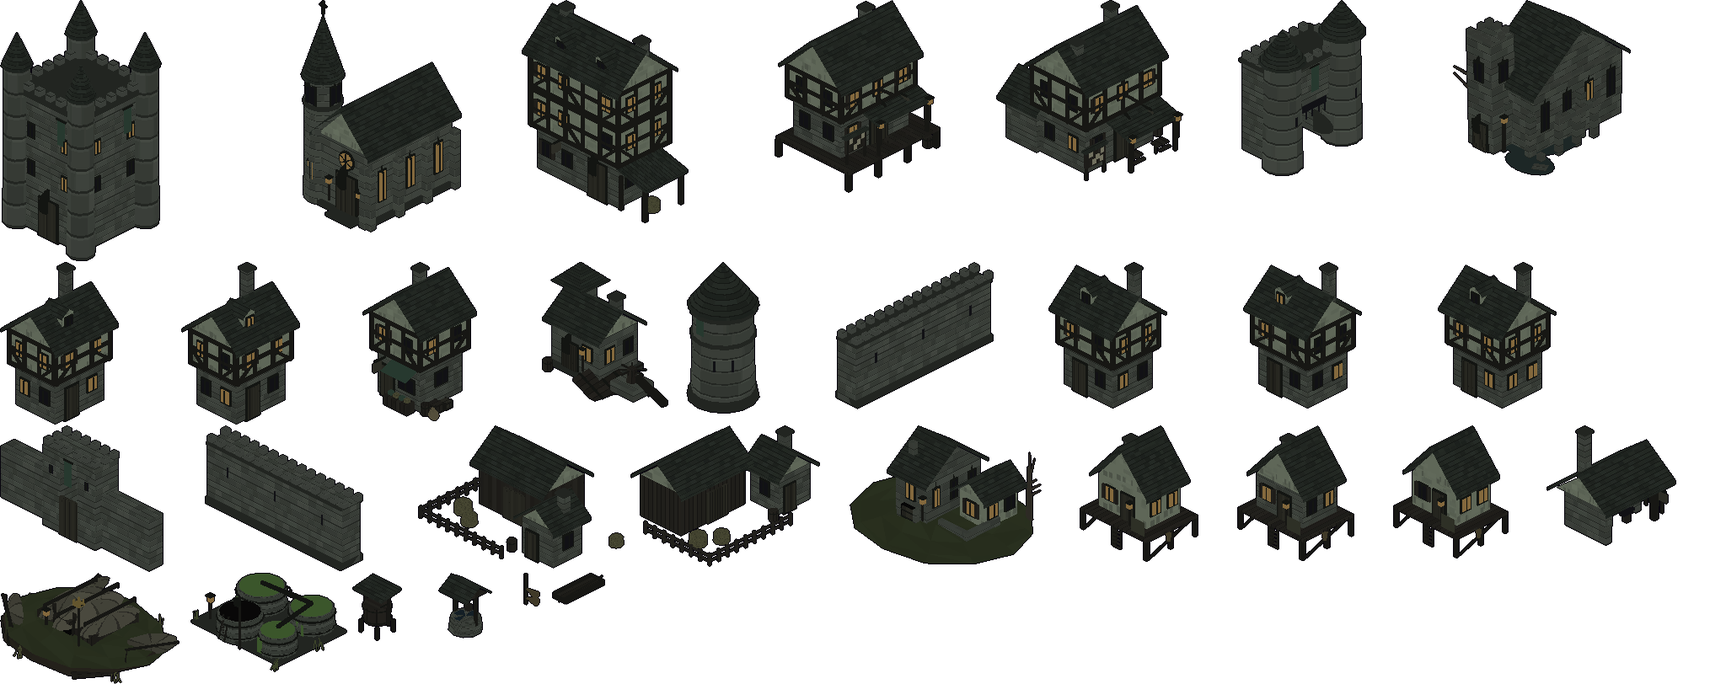
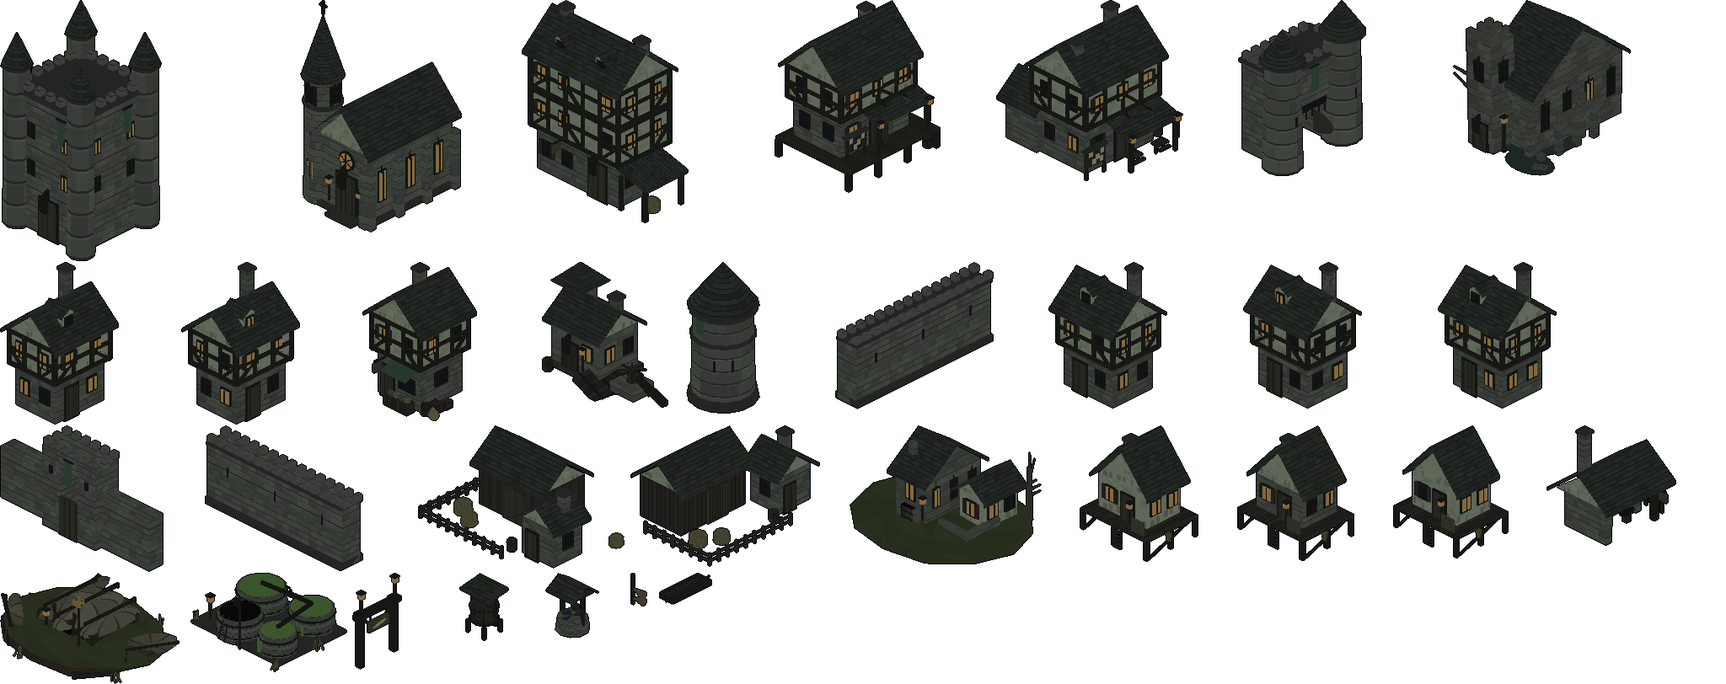
Saltmere's way in: a landing gate, and nothing standing on a road
The owner, from a phone at night: a building sat on the road, and the way
into Saltmere wasn't obvious. A stilt house stood on the canal road (41
road tiles under it), and the way in was a gap between two houses at the
end of a short diagonal boardwalk.

The boardwalk now runs straight in off the canal road to a landing gate
(new bake `landing`: two piles with lanterns, a beam, the town's board),
the way in through it, Saltmere's name over it, the arrival on the
boardwalk facing it. The houses stand behind and beside it, off the road.

The same check found the Locks' hall over the canal road, Reedholm's
track running into the priory and a punt on the Abbey's causeway (all
moved), and in the Vale a rock and a stump on the barrows road and a
stump on the camp track (moved off). Blocked road tiles, by land and
seed: Vale 50–55 -> 1–3 (only Thornwick's gate post, the camp and the
barrow, each at its own road's end); Fens 6 -> 0.

Tests (town.test.mjs): no road blocked except at its own end, both lands,
three seeds; Saltmere's way in is through its gate under its name. Both
fail on the old layout. 310 tests, smoke OK.

Claude-Session: https://claude.ai/code/session_015iJE9saRx1hCYJHRMUYeGn

Changed region(s): [[0.1875, 0.8313, 0.4375, 0.9852]]

diff --git a/src/sim/envfoot.js b/src/sim/envfoot.js
@@ -1,4 +1,4 @@
 // envfoot.js — GENERATED by tools/actor-lab/bake-env.cjs. Do not edit.
 // Ground footprint of each baked environment sprite, in tiles relative to its
 // origin: [x0, y0, x1, y1]. Used for collision and placement.
-export const ENV_FOOT = {"pine_1":[-4.13,-4.18,4.39,4.34],"pine_2":[-4.81,-4.8,5.12,5],"pine_3":[-4.98,-5.01,5,4.96],"pine_4":[-5.13,-5.38,5.48,5.19],"pine_5":[-4.8,-4.87,4.86,4.58],"pine_6":[-4.76,-4.68,4.81,4.84],"oak_1":[-6.75,-7.14,6.33,6.1],"oak_2":[-5.79,-6.35,5.76,6.08],"oak_3":[-6.48,-6.65,6.29,5.96],"oak_4":[-6.59,-6.8,6.43,6.89],"autumn_1":[-6.59,-6.88,6.22,6.33],"autumn_2":[-5.57,-5.73,5.51,5.75],"autumn_3":[-5.1,-5.47,5.08,5.06],"birch_1":[-4.93,-3.24,2.73,4.21],"birch_2":[-4.81,-4.29,4.6,3.62],"birch_3":[-5.17,-3.57,4.88,4.81],"dead_1":[-2.24,-2.81,2.66,2.62],"dead_2":[-2.56,-1.87,2.98,3.05],"grove_1":[-9.86,-8.38,6.88,6.28],"grove_2":[-10.59,-7.13,5.79,8.69],"grove_3":[-10.94,-8,11.15,9.36],"grove_4":[-10.79,-8.1,8.04,10.5],"grove_5":[-9.42,-11.89,11.01,10.13],"grove_6":[-7.78,-9.39,8.91,8.76],"bridge_0":[-3.6,-9.7,3.6,9.7],"bridge_90":[-9.7,-3.6,9.7,3.6],"rock_A":[-2.18,-2.03,2.19,2.41],"rock_B":[-2.03,-2.12,2.06,1.97],"rock_C":[-3.06,-3.35,3.32,3.55],"rock_D":[-2.7,-3.56,2.22,2.22],"rock_E":[-3.72,-3.84,4.19,6.22],"mountain_A_grass_trees":[-10.67,-10.54,11.17,11.99],"mountain_B_grass_trees":[-12.25,-12.31,11.91,11.79],"mountain_C_grass_trees":[-11.39,-10.97,11.31,12.47],"mountain_A":[-10,-10.64,10.64,10.58],"mountain_B":[-11.58,-11.7,12.29,12.11],"mountain_massif_A":[-37.07,-33.75,43.44,35.17],"mountain_massif_B":[-30.31,-33,30.17,32.15],"mountain_massif_C":[-24.46,-24.21,25.04,24.61],"ruin":[-9.37,-9.66,9.14,6.89],"mine_0":[-13.86,-13.76,9.84,11.1],"lumbermill_90":[-10.3,-7.1,9.4,8.9],"barrel":[-0.89,-0.94,0.89,0.94],"crate_A_big":[-1.12,-1.12,1.12,1.19],"crate_A_small":[-0.72,-0.72,0.72,0.79],"crate_B_big":[-1.12,-1.12,1.12,1.19],"crate_long_A":[-2.02,-1.02,2.02,1.09],"sack":[-0.62,-0.49,1.25,1.36],"wheelbarrow":[-1.32,-2.69,1.32,3.23],"weaponrack":[-1.2,-0.19,2.1,0.81],"bucket_water":[-0.65,-0.65,0.65,0.65],"resource_lumber":[-3.33,-1.78,3.33,2.15],"resource_stone":[-1.7,-1.97,1.75,0.83],"flag_red":[-0.16,-0.12,0.16,1.84],"stump":[-1.06,-1.15,1.12,1.1],"fence_0":[-0.25,-6.05,0.3,6.05],"fence_90":[-6.05,-0.3,6.05,0.25],"drywall_0":[-0.83,-5.8,0.8,5.78],"drywall_90":[-5.8,-0.8,5.78,0.83],"stairsup_0":[-2.6,-4.15,2.6,3.1],"stairsup_90":[-4.15,-2.6,3.1,2.6],"stairsdown_0":[-3.38,-3.8,3.38,3.01],"watermill_0":[-6.12,-4.3,5.3,5.38],"chapelruin_0":[-6.67,-5.7,7.63,8.85],"milestone_0":[-1.68,-1.61,1.66,3.1],"warren_0":[-19.82,-24.03,13.71,8.3],"wagon_0":[-4.9,-1.55,4.09,3.62],"ug_bush":[-2.03,-2.14,2.18,2.18],"ug_fern":[-3.54,-3.27,3.7,3.52],"ug_plant":[-1.95,-2.32,2.09,2.06],"ug_flowers_1":[-0.86,-1.12,1.22,1.11],"ug_flowers_2":[-1.3,-0.89,1.19,1.02],"ug_grass_1":[-1.48,-1.64,1.6,1.55],"ug_grass_2":[-0.81,-0.96,0.98,1.03],"ug_clover":[-1,-0.94,0.7,0.73],"ug_mushroom":[-1.62,-0.82,1.79,1.94],"rock_F":[-2.07,-1.38,1.8,2.21],"rock_G":[-2.06,-1.39,1.6,1.58],"rock_H":[-2.19,-1.07,1.91,3.1],"wheat_1":[-0.69,-0.8,0.76,0.68],"wheat_2":[-0.71,-0.84,0.73,0.93],"wheat_3":[-0.9,-0.69,0.81,0.84],"cow_1":[-2.23,-1.26,3.32,1.47],"cow_2":[-1.59,-3.37,2.14,2.06],"cow_3":[-1.78,-1.91,2.44,2.81],"sheep_1":[-2.67,-1.44,1.86,1.44],"sheep_2":[-1.46,-2.63,1.49,1.85],"hens_1":[-1.36,-1.34,1.27,2.35],"pumpkins_1":[-1.77,-1.16,1.14,1.73],"hay_1":[-2.02,-1,2.02,1.25],"hay_2":[-1.48,-1.41,1.48,1.5],"planter_1":[-1.3,-0.4,1.3,0.4],"vale_tavern_1":[-8.45,-6.72,7.25,6.3],"vale_inn_1":[-7.1,-4.4,10.48,5.1],"vale_shop_1":[-4.2,-4.2,5.72,5.07],"vale_temple_1":[-6.81,-6.95,4.5,7.84],"vale_well_1":[-2.1,-1.8,2.1,1.8],"vale_house_1":[-4.7,-4,4.7,4],"vale_house_2":[-4.7,-4,4.7,4],"vale_house_3":[-4.7,-4,4.7,4],"vale_housex_1":[-4,-4.7,4,4.7],"vale_housex_2":[-4,-4.7,4,4.7],"vale_farm_1":[-9.63,-5.7,9.77,7.63],"vale_farmx_1":[-5.7,-9.77,7.63,9.63],"vale_keep_1":[-6.37,-6.45,6.37,6.45],"vale_wall_1":[-11,-1.7,11,2.1],"vale_smith_1":[-4.3,-5.36,4.8,5.2],"vale_curtain_1":[-10.09,-2,10.15,2],"vale_curtainy_1":[-2,-10.15,2,10.09],"vale_tower_1":[-4.1,-4.1,4.1,4.1],"vale_gatehousey_1":[-3,-7.5,3,7.5],"fens_tavern_1":[-8.45,-6.72,7.25,6.3],"fens_inn_1":[-7.1,-4.4,10.48,5.1],"fens_shop_1":[-4.2,-4.2,5.72,5.07],"fens_temple_1":[-6.81,-6.95,4.5,7.84],"fens_well_1":[-2.1,-1.8,2.1,1.8],"fens_house_1":[-4.7,-4,4.7,4],"fens_house_2":[-4.7,-4,4.7,4],"fens_house_3":[-4.7,-4,4.7,4],"fens_housex_1":[-4,-4.7,4,4.7],"fens_housex_2":[-4,-4.7,4,4.7],"fens_farm_1":[-9.63,-5.7,9.77,7.63],"fens_farmx_1":[-5.7,-9.77,7.63,9.63],"fens_keep_1":[-6.37,-6.45,6.37,6.45],"fens_wall_1":[-11,-1.7,11,2.1],"fens_smith_1":[-4.3,-5.36,4.8,5.2],"fens_curtain_1":[-10,-1.6,10.3,1.6],"fens_curtainy_1":[-1.6,-10.3,1.6,10],"fens_tower_1":[-3.7,-3.8,3.7,3.8],"fens_gatehousey_1":[-3,-7,5.7,7],"fens_stilt_1":[-4.81,-3.8,5.15,3.99],"fens_stilt_2":[-4.66,-3.8,5,3.99],"fens_stilt_3":[-4.9,-3.8,5.24,3.99],"fens_stilttavern_1":[-5.45,-6.75,5.75,6.75],"fens_cistern_1":[-2.1,-1.56,2.1,1.56],"fens_punt_1":[-1,-3.29,1,3.69],"fens_eeltrap_1":[-0.45,-0.41,1.65,0.45],"fens_boathall_1":[-10.75,-9.86,9.83,7.48],"fens_lockhall_1":[-8.1,-6,12.96,5.11],"fens_vats_1":[-6.86,-6.13,7.31,5.8],"fens_abbey_1":[-8.09,-8.86,7.95,8.39],"fens_priory_1":[-10.4,-8.86,10.43,8.9],"reach_tavern_1":[-8.45,-6.72,7.25,6.3],"reach_inn_1":[-7.1,-4.4,10.48,5.1],"reach_shop_1":[-4.2,-4.2,5.72,5.07],"reach_temple_1":[-6.81,-6.95,4.5,7.84],"reach_well_1":[-2.1,-1.8,2.1,1.8],"reach_house_1":[-4.7,-4,4.7,4],"reach_house_2":[-4.7,-4,4.7,4],"reach_house_3":[-4.7,-4,4.7,4],"reach_housex_1":[-4,-4.7,4,4.7],"reach_housex_2":[-4,-4.7,4,4.7],"reach_farm_1":[-9.63,-5.7,9.77,7.63],"reach_farmx_1":[-5.7,-9.77,7.63,9.63],"reach_keep_1":[-6.37,-6.45,6.37,6.45],"reach_wall_1":[-11,-1.7,11,2.1],"reach_smith_1":[-4.3,-5.36,4.8,5.2],"reach_curtain_1":[-10,-1.6,10.3,1.6],"reach_curtainy_1":[-1.6,-10.3,1.6,10],"reach_tower_1":[-3.7,-3.8,3.7,3.8],"reach_gatehousey_1":[-3,-7,5.7,7],"heights_tavern_1":[-8.45,-6.72,7.25,6.3],"heights_inn_1":[-7.1,-4.4,10.48,5.1],"heights_shop_1":[-4.2,-4.2,5.72,5.07],"heights_temple_1":[-6.81,-6.95,4.5,7.84],"heights_well_1":[-2.1,-1.8,2.1,1.8],"heights_house_1":[-4.7,-4,4.7,4],"heights_house_2":[-4.7,-4,4.7,4],"heights_house_3":[-4.7,-4,4.7,4],"heights_housex_1":[-4,-4.7,4,4.7],"heights_housex_2":[-4,-4.7,4,4.7],"heights_farm_1":[-9.63,-5.7,9.77,7.63],"heights_farmx_1":[-5.7,-9.77,7.63,9.63],"heights_keep_1":[-6.37,-6.45,6.37,6.45],"heights_wall_1":[-11,-1.7,11,2.1],"heights_smith_1":[-4.3,-5.36,4.8,5.2],"heights_curtain_1":[-10,-1.6,10.3,1.6],"heights_curtainy_1":[-1.6,-10.3,1.6,10],"heights_tower_1":[-3.7,-3.8,3.7,3.8],"heights_gatehousey_1":[-3,-7,5.7,7]};
+export const ENV_FOOT = {"pine_1":[-4.13,-4.18,4.39,4.34],"pine_2":[-4.81,-4.8,5.12,5],"pine_3":[-4.98,-5.01,5,4.96],"pine_4":[-5.13,-5.38,5.48,5.19],"pine_5":[-4.8,-4.87,4.86,4.58],"pine_6":[-4.76,-4.68,4.81,4.84],"oak_1":[-6.75,-7.14,6.33,6.1],"oak_2":[-5.79,-6.35,5.76,6.08],"oak_3":[-6.48,-6.65,6.29,5.96],"oak_4":[-6.59,-6.8,6.43,6.89],"autumn_1":[-6.59,-6.88,6.22,6.33],"autumn_2":[-5.57,-5.73,5.51,5.75],"autumn_3":[-5.1,-5.47,5.08,5.06],"birch_1":[-4.93,-3.24,2.73,4.21],"birch_2":[-4.81,-4.29,4.6,3.62],"birch_3":[-5.17,-3.57,4.88,4.81],"dead_1":[-2.24,-2.81,2.66,2.62],"dead_2":[-2.56,-1.87,2.98,3.05],"grove_1":[-9.86,-8.38,6.88,6.28],"grove_2":[-10.59,-7.13,5.79,8.69],"grove_3":[-10.94,-8,11.15,9.36],"grove_4":[-10.79,-8.1,8.04,10.5],"grove_5":[-9.42,-11.89,11.01,10.13],"grove_6":[-7.78,-9.39,8.91,8.76],"bridge_0":[-3.6,-9.7,3.6,9.7],"bridge_90":[-9.7,-3.6,9.7,3.6],"rock_A":[-2.18,-2.03,2.19,2.41],"rock_B":[-2.03,-2.12,2.06,1.97],"rock_C":[-3.06,-3.35,3.32,3.55],"rock_D":[-2.7,-3.56,2.22,2.22],"rock_E":[-3.72,-3.84,4.19,6.22],"mountain_A_grass_trees":[-10.67,-10.54,11.17,11.99],"mountain_B_grass_trees":[-12.25,-12.31,11.91,11.79],"mountain_C_grass_trees":[-11.39,-10.97,11.31,12.47],"mountain_A":[-10,-10.64,10.64,10.58],"mountain_B":[-11.58,-11.7,12.29,12.11],"mountain_massif_A":[-37.07,-33.75,43.44,35.17],"mountain_massif_B":[-30.31,-33,30.17,32.15],"mountain_massif_C":[-24.46,-24.21,25.04,24.61],"ruin":[-9.37,-9.66,9.14,6.89],"mine_0":[-13.86,-13.76,9.84,11.1],"lumbermill_90":[-10.3,-7.1,9.4,8.9],"barrel":[-0.89,-0.94,0.89,0.94],"crate_A_big":[-1.12,-1.12,1.12,1.19],"crate_A_small":[-0.72,-0.72,0.72,0.79],"crate_B_big":[-1.12,-1.12,1.12,1.19],"crate_long_A":[-2.02,-1.02,2.02,1.09],"sack":[-0.62,-0.49,1.25,1.36],"wheelbarrow":[-1.32,-2.69,1.32,3.23],"weaponrack":[-1.2,-0.19,2.1,0.81],"bucket_water":[-0.65,-0.65,0.65,0.65],"resource_lumber":[-3.33,-1.78,3.33,2.15],"resource_stone":[-1.7,-1.97,1.75,0.83],"flag_red":[-0.16,-0.12,0.16,1.84],"stump":[-1.06,-1.15,1.12,1.1],"fence_0":[-0.25,-6.05,0.3,6.05],"fence_90":[-6.05,-0.3,6.05,0.25],"drywall_0":[-0.83,-5.8,0.8,5.78],"drywall_90":[-5.8,-0.8,5.78,0.83],"stairsup_0":[-2.6,-4.15,2.6,3.1],"stairsup_90":[-4.15,-2.6,3.1,2.6],"stairsdown_0":[-3.38,-3.8,3.38,3.01],"watermill_0":[-6.12,-4.3,5.3,5.38],"chapelruin_0":[-6.67,-5.7,7.63,8.85],"milestone_0":[-1.68,-1.61,1.66,3.1],"warren_0":[-19.82,-24.03,13.71,8.3],"wagon_0":[-4.9,-1.55,4.09,3.62],"ug_bush":[-2.03,-2.14,2.18,2.18],"ug_fern":[-3.54,-3.27,3.7,3.52],"ug_plant":[-1.95,-2.32,2.09,2.06],"ug_flowers_1":[-0.86,-1.12,1.22,1.11],"ug_flowers_2":[-1.3,-0.89,1.19,1.02],"ug_grass_1":[-1.48,-1.64,1.6,1.55],"ug_grass_2":[-0.81,-0.96,0.98,1.03],"ug_clover":[-1,-0.94,0.7,0.73],"ug_mushroom":[-1.62,-0.82,1.79,1.94],"rock_F":[-2.07,-1.38,1.8,2.21],"rock_G":[-2.06,-1.39,1.6,1.58],"rock_H":[-2.19,-1.07,1.91,3.1],"wheat_1":[-0.69,-0.8,0.76,0.68],"wheat_2":[-0.71,-0.84,0.73,0.93],"wheat_3":[-0.9,-0.69,0.81,0.84],"cow_1":[-2.23,-1.26,3.32,1.47],"cow_2":[-1.59,-3.37,2.14,2.06],"cow_3":[-1.78,-1.91,2.44,2.81],"sheep_1":[-2.67,-1.44,1.86,1.44],"sheep_2":[-1.46,-2.63,1.49,1.85],"hens_1":[-1.36,-1.34,1.27,2.35],"pumpkins_1":[-1.77,-1.16,1.14,1.73],"hay_1":[-2.02,-1,2.02,1.25],"hay_2":[-1.48,-1.41,1.48,1.5],"planter_1":[-1.3,-0.4,1.3,0.4],"vale_tavern_1":[-8.45,-6.72,7.25,6.3],"vale_inn_1":[-7.1,-4.4,10.48,5.1],"vale_shop_1":[-4.2,-4.2,5.72,5.07],"vale_temple_1":[-6.81,-6.95,4.5,7.84],"vale_well_1":[-2.1,-1.8,2.1,1.8],"vale_house_1":[-4.7,-4,4.7,4],"vale_house_2":[-4.7,-4,4.7,4],"vale_house_3":[-4.7,-4,4.7,4],"vale_housex_1":[-4,-4.7,4,4.7],"vale_housex_2":[-4,-4.7,4,4.7],"vale_farm_1":[-9.63,-5.7,9.77,7.63],"vale_farmx_1":[-5.7,-9.77,7.63,9.63],"vale_keep_1":[-6.37,-6.45,6.37,6.45],"vale_wall_1":[-11,-1.7,11,2.1],"vale_smith_1":[-4.3,-5.36,4.8,5.2],"vale_curtain_1":[-10.09,-2,10.15,2],"vale_curtainy_1":[-2,-10.15,2,10.09],"vale_tower_1":[-4.1,-4.1,4.1,4.1],"vale_gatehousey_1":[-3,-7.5,3,7.5],"fens_tavern_1":[-8.45,-6.72,7.25,6.3],"fens_inn_1":[-7.1,-4.4,10.48,5.1],"fens_shop_1":[-4.2,-4.2,5.72,5.07],"fens_temple_1":[-6.81,-6.95,4.5,7.84],"fens_well_1":[-2.1,-1.8,2.1,1.8],"fens_house_1":[-4.7,-4,4.7,4],"fens_house_2":[-4.7,-4,4.7,4],"fens_house_3":[-4.7,-4,4.7,4],"fens_housex_1":[-4,-4.7,4,4.7],"fens_housex_2":[-4,-4.7,4,4.7],"fens_farm_1":[-9.63,-5.7,9.77,7.63],"fens_farmx_1":[-5.7,-9.77,7.63,9.63],"fens_keep_1":[-6.37,-6.45,6.37,6.45],"fens_wall_1":[-11,-1.7,11,2.1],"fens_smith_1":[-4.3,-5.36,4.8,5.2],"fens_curtain_1":[-10,-1.6,10.3,1.6],"fens_curtainy_1":[-1.6,-10.3,1.6,10],"fens_tower_1":[-3.7,-3.8,3.7,3.8],"fens_gatehousey_1":[-3,-7,5.7,7],"fens_stilt_1":[-4.81,-3.8,5.15,3.99],"fens_stilt_2":[-4.66,-3.8,5,3.99],"fens_stilt_3":[-4.9,-3.8,5.24,3.99],"fens_stilttavern_1":[-5.45,-6.75,5.75,6.75],"fens_cistern_1":[-2.1,-1.56,2.1,1.56],"fens_punt_1":[-1,-3.29,1,3.69],"fens_eeltrap_1":[-0.45,-0.41,1.65,0.45],"fens_boathall_1":[-10.75,-9.86,9.83,7.48],"fens_lockhall_1":[-8.1,-6,12.96,5.11],"fens_vats_1":[-6.86,-6.13,7.31,5.8],"fens_abbey_1":[-8.09,-8.86,7.95,8.39],"fens_priory_1":[-10.4,-8.86,10.43,8.9],"fens_landing_1":[-0.45,-3.2,0.55,3.2],"reach_tavern_1":[-8.45,-6.72,7.25,6.3],"reach_inn_1":[-7.1,-4.4,10.48,5.1],"reach_shop_1":[-4.2,-4.2,5.72,5.07],"reach_temple_1":[-6.81,-6.95,4.5,7.84],"reach_well_1":[-2.1,-1.8,2.1,1.8],"reach_house_1":[-4.7,-4,4.7,4],"reach_house_2":[-4.7,-4,4.7,4],"reach_house_3":[-4.7,-4,4.7,4],"reach_housex_1":[-4,-4.7,4,4.7],"reach_housex_2":[-4,-4.7,4,4.7],"reach_farm_1":[-9.63,-5.7,9.77,7.63],"reach_farmx_1":[-5.7,-9.77,7.63,9.63],"reach_keep_1":[-6.37,-6.45,6.37,6.45],"reach_wall_1":[-11,-1.7,11,2.1],"reach_smith_1":[-4.3,-5.36,4.8,5.2],"reach_curtain_1":[-10,-1.6,10.3,1.6],"reach_curtainy_1":[-1.6,-10.3,1.6,10],"reach_tower_1":[-3.7,-3.8,3.7,3.8],"reach_gatehousey_1":[-3,-7,5.7,7],"heights_tavern_1":[-8.45,-6.72,7.25,6.3],"heights_inn_1":[-7.1,-4.4,10.48,5.1],"heights_shop_1":[-4.2,-4.2,5.72,5.07],"heights_temple_1":[-6.81,-6.95,4.5,7.84],"heights_well_1":[-2.1,-1.8,2.1,1.8],"heights_house_1":[-4.7,-4,4.7,4],"heights_house_2":[-4.7,-4,4.7,4],"heights_house_3":[-4.7,-4,4.7,4],"heights_housex_1":[-4,-4.7,4,4.7],"heights_housex_2":[-4,-4.7,4,4.7],"heights_farm_1":[-9.63,-5.7,9.77,7.63],"heights_farmx_1":[-5.7,-9.77,7.63,9.63],"heights_keep_1":[-6.37,-6.45,6.37,6.45],"heights_wall_1":[-11,-1.7,11,2.1],"heights_smith_1":[-4.3,-5.36,4.8,5.2],"heights_curtain_1":[-10,-1.6,10.3,1.6],"heights_curtainy_1":[-1.6,-10.3,1.6,10],"heights_tower_1":[-3.7,-3.8,3.7,3.8],"heights_gatehousey_1":[-3,-7,5.7,7]};

diff --git a/src/sim/outdoor.js b/src/sim/outdoor.js
@@ -412,7 +412,7 @@ function buildTown(seed, region) {
 // crosses, and the Drowned Abbey in the canal's flood. Open ground is wet peat and reed (o.marsh), with meres of
 // still bog water. The five sites (m8-plan slice 3) stand on the canal's banks and the meres' shores, each with its
 // way in toward the camera (+y) where its road or causeway ends, its own water behind it.
-export const FENS = { north: [60, -6], salt: [72, 60], mound: [34, 104], locks: [100, 128], lockhall: [80, 116], pools: [180, 96], abbey: [126, 206], reedholm: [202, 190] };
+export const FENS = { north: [60, -6], salt: [72, 60], mound: [34, 104], locks: [100, 128], lockhall: [76, 112], pools: [180, 96], abbey: [126, 206], reedholm: [202, 190] };
 function buildFens(seed) {
   const o = makeWorld(seed, 'overland', 240, 240, 90), rng = mulberry32(streamSeed(seed, 4431)), B = (t, n = 1) => `fens_${t}_${n}`;
   o.name = 'The Greywater Fens'; o.region = 'fens'; o.marsh = true;
@@ -432,28 +432,33 @@ function buildFens(seed) {
   const door = (p, dy = 12) => [p[0] + 1, p[1] + dy];                                                            // a site's way in, in front of it
   const ROADS = [
     { w: 5, surface: 'dirt', pts: [[north[0], -30], [north[0] + 2, 14], [salt[0] + 12, salt[1] - 20], [salt[0] + 20, salt[1] + 6], [92, 100], [locks[0] - 8, locks[1]]] },   // the canal road, down from the Vale past Saltmere to the Locks
-    { w: 4, surface: 'deck', pts: [[salt[0] + 19, salt[1] + 6], [salt[0] + 10, salt[1] + 3], [salt[0] + 4, salt[1] + 1]] },          // Saltmere's boardwalk, in from its front
+    { w: 4, surface: 'deck', pts: [[salt[0] + 19, salt[1]], [salt[0] - 2, salt[1]]] },                                     // Saltmere's boardwalk, straight in off the canal road to its landing gate
     { w: 5, surface: 'dirt', pts: [[locks[0] - 8, locks[1]], [locks[0] + 18, locks[1]]] },                                  // over the lock gates
-    { w: 3, surface: 'track', pts: [[92, 112], [86, 124], door(lockhall, 10)] },                                         // to the lock-keepers' door
+    { w: 3, surface: 'track', pts: [[92, 114], [86, 122], [lockhall[0] + 1, lockhall[1] + 11]] },                         // to the lock-keepers' door
     { w: 4, surface: 'dirt', pts: [[locks[0] + 18, locks[1]], [150, 116], door(pools, 14)] },                              // east to the Sickpools
     { w: 4, surface: 'dirt', pts: [[locks[0] - 8, locks[1]], [94, 170], [abbey[0] - 26, abbey[1] - 4]] },                    // south to the Abbey's flood
     { w: 4, surface: 'deck', pts: [[abbey[0] - 26, abbey[1] - 4], [abbey[0] - 14, abbey[1] + 10], [abbey[0] - 5, abbey[1] + 17], door(abbey, 17), door(abbey, 9)] },   // the causeway over it, up to the west door
-    { w: 3, surface: 'track', pts: [[locks[0] + 18, locks[1]], [150, 150], [reedholm[0] - 6, reedholm[1] + 6], door(reedholm, 14)] },   // up Reedholm's rise
+    { w: 3, surface: 'track', pts: [[locks[0] + 18, locks[1]], [150, 150], [184, 196], [192, 204], [reedholm[0] - 2, reedholm[1] + 14]] },   // up to the foot of Reedholm's rise
     { w: 3, surface: 'track', pts: [[92, 96], [62, 100], [mound[0] + 14, mound[1] + 14], door(mound, 12)] },                  // west to the Toadking's shore
   ].map((r) => ({ ...r, pts: r.surface === 'deck' ? r.pts : fillet(r.pts, Math.max(8, r.w * 2)) }));
   o.roads.push(...ROADS);
   finalizeGround(o);
   put(o, 'bridge_90', locks[0] + 1, locks[1], 'deck');                                                              // the lock gates' bridge
-  // Saltmere from outside: its stilt houses standing in the mere round the boardwalk's end
-  for (const [id, x, y] of [[B('stilttavern'), salt[0] + 2, salt[1] - 10], [B('stilt', 1), salt[0] - 10, salt[1] - 4], [B('stilt', 2), salt[0] + 12, salt[1] - 10],
-    [B('stilt', 3), salt[0] - 4, salt[1] + 8], [B('stilt', 1), salt[0] - 16, salt[1] - 16], [B('stilt', 2), salt[0] - 4, salt[1] - 22]]) put(o, id, x, y);
-  for (const [id, x, y] of [[B('punt'), salt[0] - 14, salt[1] + 6], [B('punt'), salt[0] + 6, salt[1] - 18], [B('eeltrap'), salt[0] - 18, salt[1] + 2], [B('eeltrap'), salt[0] + 2, salt[1] + 12]]) put(o, id, x, y, 'rect', 0);
+  // Saltmere from outside: the boardwalk comes in straight off the canal road to the landing gate (its board and two
+  // lanterns: the way in, the town's name over it), the stilt houses standing in the mere behind and beside its end,
+  // up-screen of it and clear of the road (2026-10-04, the owner: a house stood on the road and the way in was a gap)
+  { const G = [salt[0] + 4, salt[1]];
+    put(o, B('landing'), G[0], G[1], 'none');
+    for (const dy of [-2.6, 2.6]) { const i = gi(o, G[0], G[1] + dy); if (i >= 0) o.blocked[i] = 1; }   // the piles
+    for (const [id, x, y] of [[B('stilttavern'), salt[0] - 6, salt[1] - 12], [B('stilt', 1), salt[0] - 16, salt[1]], [B('stilt', 2), salt[0] + 2, salt[1] - 18],
+      [B('stilt', 3), salt[0] - 14, salt[1] + 12], [B('stilt', 1), salt[0] - 20, salt[1] - 16], [B('stilt', 2), salt[0] - 8, salt[1] - 26]]) put(o, id, x, y);
+    for (const [id, x, y] of [[B('punt'), salt[0] + 10, salt[1] + 8], [B('punt'), salt[0] - 22, salt[1] - 8], [B('eeltrap'), salt[0] - 22, salt[1] + 4], [B('eeltrap'), salt[0] + 2, salt[1] + 10]]) put(o, id, x, y, 'rect', 0); }
   // the sites (world doc §3.2): the Toadking's island, the lock-keepers' hall by the gates, the vats, the Abbey in its
   // flood, Reedholm on its rise (the Undercroft's door in its chapel front, shut until the Fens set is whole)
   put(o, B('boathall'), mound[0], mound[1]); put(o, B('lockhall'), lockhall[0], lockhall[1]); put(o, B('vats'), pools[0], pools[1]);
   put(o, B('abbey'), abbey[0], abbey[1]); put(o, B('priory'), reedholm[0], reedholm[1]);
-  for (const [id, x, y] of [[B('punt'), mound[0] - 14, mound[1] + 4], [B('eeltrap'), mound[0] - 18, mound[1] - 2], [B('punt'), abbey[0] - 20, abbey[1] + 6]]) put(o, id, x, y, 'rect', 0);
-  o.labels.push({ x: salt[0] + 2, y: salt[1] - 10, id: B('stilttavern'), text: 'Saltmere' },
+  for (const [id, x, y] of [[B('punt'), mound[0] - 14, mound[1] + 4], [B('eeltrap'), mound[0] - 18, mound[1] - 2], [B('punt'), abbey[0] + 16, abbey[1] + 10]]) put(o, id, x, y, 'rect', 0);
+  o.labels.push({ x: salt[0] + 4, y: salt[1], id: B('landing'), text: 'Saltmere' },
     { x: mound[0], y: mound[1], id: B('boathall'), text: "Toadking's Mound", site: 'toadking_mound' }, { x: lockhall[0], y: lockhall[1], id: B('lockhall'), text: 'The Canal Locks', site: 'canal_locks' },
     { x: pools[0], y: pools[1], id: B('vats'), text: 'The Sickpools', site: 'sickpools' }, { x: abbey[0], y: abbey[1], id: B('abbey'), text: 'The Drowned Abbey', site: 'drowned_abbey' },
     { x: reedholm[0], y: reedholm[1], id: B('priory'), text: 'Reedholm' });
@@ -471,12 +476,12 @@ function buildFens(seed) {
     return fbm(x * 0.08, y * 0.08, o.seed + 43) > 0.6 ? 0.5 : 0.08;
   });
   o.exits.push({ x0: north[0] - 8, y0: -11, x1: north[0] + 9, y1: -4, to: 'overland', region: 'vale', arrive: 'fens' });   // back up the canal road to the Vale
-  o.exits.push({ x0: salt[0] + 1, y0: salt[1] - 2, x1: salt[0] + 6, y1: salt[1] + 4, to: 'town', arrive: 'overland' });     // the boardwalk's end: into Saltmere
+  o.exits.push({ x0: salt[0] - 2, y0: salt[1] - 2, x1: salt[0] + 3.5, y1: salt[1] + 2, to: 'town', arrive: 'overland' });   // through the landing gate: into Saltmere
   // each site's door: a box in front of it (the Undercroft's is the low door in Reedholm's chapel front, left of centre)
   const SITE_AT = { toadking_mound: mound, canal_locks: lockhall, sickpools: pools, drowned_abbey: abbey, reedholm_undercroft: [reedholm[0] - 3, reedholm[1]] };
   const DOOR_Y = { toadking_mound: 7, canal_locks: 5.5, sickpools: 6, drowned_abbey: 8.5, reedholm_undercroft: 7.5 };
   for (const [site, [x, y]] of Object.entries(SITE_AT)) o.exits.push({ x0: x - 2.5, y0: y + DOOR_Y[site], x1: x + 3.5, y1: y + DOOR_Y[site] + 3, to: 'dungeon', site });
-  o.arrivals = { default: { x: salt[0] + 16.5, y: salt[1] + 6.5 }, saltmere: { x: salt[0] + 16.5, y: salt[1] + 6.5 }, vale_road: { x: north[0] + 0.5, y: 2.5 } };
+  o.arrivals = { default: { x: salt[0] + 12.5, y: salt[1] + 0.5 }, saltmere: { x: salt[0] + 12.5, y: salt[1] + 0.5 }, vale_road: { x: north[0] + 0.5, y: 2.5 } };   // on the boardwalk, facing the gate
   for (const [site, [x, y]] of Object.entries(SITE_AT)) o.arrivals[site] = { x: x + 1.5, y: y + DOOR_Y[site] + 7.5 };
   o.spawn = o.arrivals.default;
   return o;
@@ -638,7 +643,7 @@ function buildOverland(seed) {
   put(o, B('keep'), keep[0], keep[1]);
   put(o, B('shop', 1), cross[0] + 12, cross[1] - 12);          // waystation at the crossroads
   put(o, 'ruin', barrows[0], barrows[1], 'round', 0.3);          // the mound blocks; its doorway (front, +y) stays open
-  for (const [id, x, y] of [['rock_C', barrows[0] - 8, barrows[1] + 4], ['rock_E', barrows[0] + 18, barrows[1] + 2], ['rock_A', barrows[0] - 4, barrows[1] - 9], ['stump', barrows[0] + 14, barrows[1] - 6]]) put(o, id, x, y, 'rect', 0);
+  for (const [id, x, y] of [['rock_C', barrows[0] - 8, barrows[1] + 4], ['rock_E', barrows[0] + 24, barrows[1] + 8], ['rock_A', barrows[0] - 4, barrows[1] - 9], ['stump', barrows[0] - 14, barrows[1] - 4]]) put(o, id, x, y, 'rect', 0);
   put(o, 'mine_0', mine[0], mine[1]);
   put(o, 'lumbermill_90', camp[0], camp[1]);
   put(o, 'watermill_0', mill[0], mill[1]);
@@ -647,7 +652,7 @@ function buildOverland(seed) {
   put(o, 'warren_0', warren[0], warren[1]);
   for (const [id, dx, dy] of [['grove_3', -20, -2], ['grove_5', 14, -20], ['pine_2', -12, -12], ['pine_5', 16, -6]]) put(o, id, warren[0] + dx, warren[1] + dy, 'round', 0.35);   // the range's foot is wooded either side of the scar
   put(o, B('farm'), 64, 114); put(o, 'wheelbarrow', 57, 128, 'rect', 0);
-  for (const [id, x, y] of [['resource_lumber', camp[0] + 10, camp[1] + 4], ['stump', camp[0] - 12, camp[1] + 8], ['stump', camp[0] + 4, camp[1] + 14], ['flag_red', keep[0] - 14, keep[1] + 30]])
+  for (const [id, x, y] of [['resource_lumber', camp[0] + 10, camp[1] + 4], ['stump', camp[0] - 16, camp[1] + 14], ['stump', camp[0] + 4, camp[1] + 14], ['flag_red', keep[0] - 14, keep[1] + 30]])
     put(o, id, x, y, 'rect', 0);
   putProp(o, 'stairs', barrows[0] + 1, barrows[1] + 7);           // just outside the barrow's door
   for (const [x, y] of [[barrows[0] + 10, barrows[1] - 2], [cross[0] + 4, cross[1] + 4], [town[0] + 9, town[1] - 5], [town[0] + 9, town[1] + 5]]) putProp(o, 'brazier', x, y);

diff --git a/tools/actor-lab/buildkit.js b/tools/actor-lab/buildkit.js
@@ -1040,6 +1040,22 @@ Object.assign(TYPES, {
     const wick = mat(null, '#6a5a38');
     for (const [y, a] of [[0.06, 0.3], [0.16, -0.4]]) { const c = new THREE.Mesh(new THREE.ConeGeometry(0.045, 0.2, 7, 1, true), wick); c.position.set(0.06, y, 0); c.rotation.z = Math.PI / 2 + a * 0.3; g.add(c); }
   },
+  // Saltmere's landing gate (the way in from the canal road): two tall piles either side of the boardwalk, a beam
+  // across with the town's board hung under it (an eel on it), a lantern on each pile. The boardwalk runs along x, so
+  // the piles stand apart along z and the board faces the camera's +x.
+  landing(S, g, r) {
+    const H = 0.62, Z = 0.25;
+    for (const sz of [-1, 1]) {
+      box(0.06, H, 0.06, S.m.beam, 0, -0.02, sz * Z, g);
+      box(0.09, 0.03, 0.09, S.m.trim, 0, H - 0.02, sz * Z, g);
+      lantern(g, S, 0.02, H + 0.2, sz * Z);
+      const brace = box(0.025, 0.2, 0.025, S.m.beam, 0, H - 0.22, sz * (Z - 0.08), g); brace.rotation.x = sz * 0.7;
+    }
+    box(0.07, 0.06, Z * 2 + 0.14, S.m.beam, 0, H - 0.06, 0, g);                                        // the beam
+    for (const sz of [-1, 1]) box(0.008, 0.08, 0.008, S.m.trim, 0.02, H - 0.14, sz * 0.12, g);           // the board's chains
+    box(0.03, 0.12, 0.3, S.m.signboard, 0.02, H - 0.26, 0, g);                                           // the board
+    const eel = new THREE.Mesh(new THREE.SphereGeometry(1, 8, 4), mat(null, '#b8a060')); eel.scale.set(0.008, 0.022, 0.11); eel.position.set(0.04, H - 0.2, 0); eel.rotation.x = 0.2; g.add(eel);
+  },
   // ── the Fens' sites (M8 slice 3; world doc v1.20 §3.2). Each way in faces the camera (+z), where the overland's
   // exit is, with a lantern by it.
   // Toadking's Mound: an island of stolen boats. A turfed mound with a hall roofed in three hulls laid keel-up, side by

diff --git a/docs/fens-critic-pass.md b/docs/fens-critic-pass.md
@@ -51,6 +51,24 @@ over the wood's edge: **25.2 %**.
   a place once its people stand on it, the next pass adds coiled rope, nets drying on rails and a moored punt to
   break it up.
 
+### The owner's report: Saltmere's way in (2026-10-04)
+
+From a phone at night: *"The building sits on top of the road and it isn't obvious for the entrance into Saltmere."*
+Both were so. A stilt house stood on the canal road (41 road tiles under it), and the way in was a gap between the
+tavern and another house at the end of a short diagonal boardwalk, with nothing marking it.
+
+| Finding | Fix |
+|---|---|
+| A stilt house stood on the canal road | Saltmere's houses moved up-screen and west, behind and beside the boardwalk's end, clear of the road |
+| Nothing marked the way in | The boardwalk runs straight in off the road to a **landing gate** (a new bake, `landing`: two piles with a lantern each, a beam, the town's board with an eel on it). The way in is through it, the name *Saltmere* stands over it, and you arrive on the boardwalk facing it |
+| The same check found more | The Locks' hall stood over the canal road and Reedholm's track ran into the priory: both moved. A punt was moored on the Abbey's causeway. In the Vale, a rock and a stump stood on the barrows road and a stump on the camp track |
+
+![Saltmere's landing gate at night and by day](img/fens/saltmere-gate.jpg)
+
+`test/town.test.mjs` now holds both lands to it, in three seeds: no road tile is blocked except at the end of the
+road that leads there (Thornwick's gate, the lumber camp, the barrow's mound). Saltmere's way in is through the gate,
+under its name. Both tests fail on the layout before the fix.
+
 ## Pass 2: art, slice 3 (the Fens' sites)
 
 Five landmarks baked in code (`tools/actor-lab/buildkit.js`: `boathall`, `lockhall`, `vats`, `abbey`, `priory`; in
